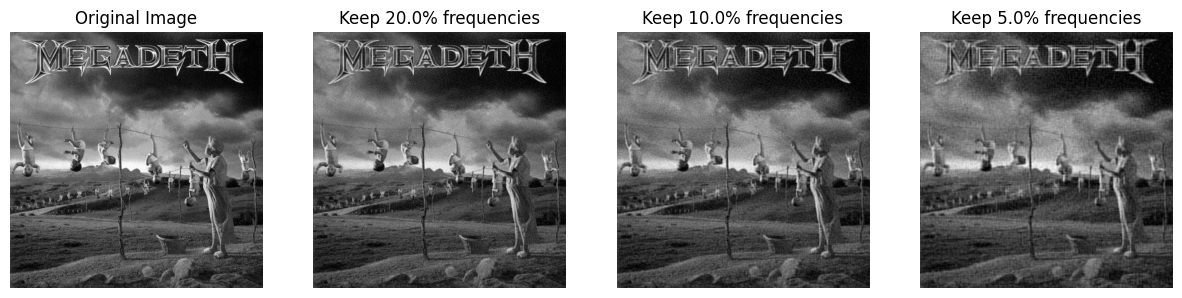
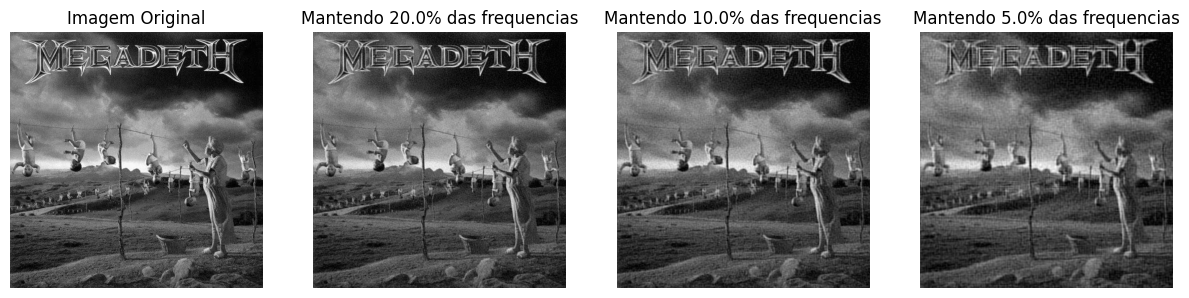
Ajustando textos da compressão.

diff --git a/image_compression.py b/image_compression.py
@@ -16,7 +16,7 @@ compression_levels = [0.2, 0.1, 0.05]
 # Prepare to display multiple images in one figure
 plt.figure(figsize=(15, 5))
 plt.subplot(1, len(compression_levels) + 1, 1)
-plt.title("Original Image")
+plt.title("Imagem Original")
 plt.imshow(image, cmap='gray')
 plt.axis('off')
 
@@ -38,7 +38,7 @@ for i, keep in enumerate(compression_levels, start=2):
 
     # Salvando a imagem de cada compressão
     plt.subplot(1, len(compression_levels) + 1, i)
-    plt.title(f"Keep {keep*100}% frequencies")
+    plt.title(f"Mantendo {keep*100}% das frequencias")
     plt.imshow(image_compressed, cmap='gray')
     plt.axis('off')
 
